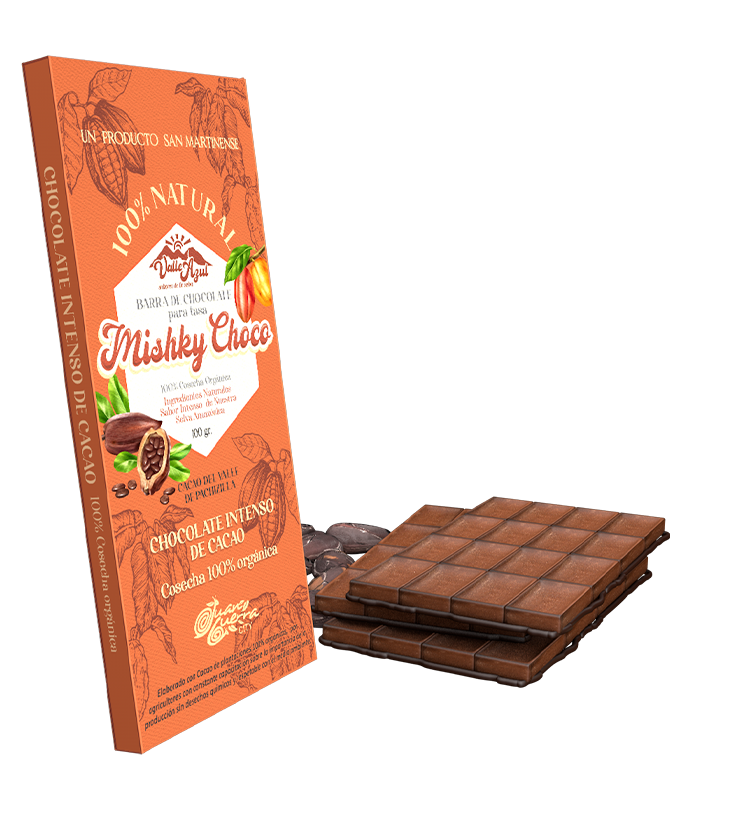
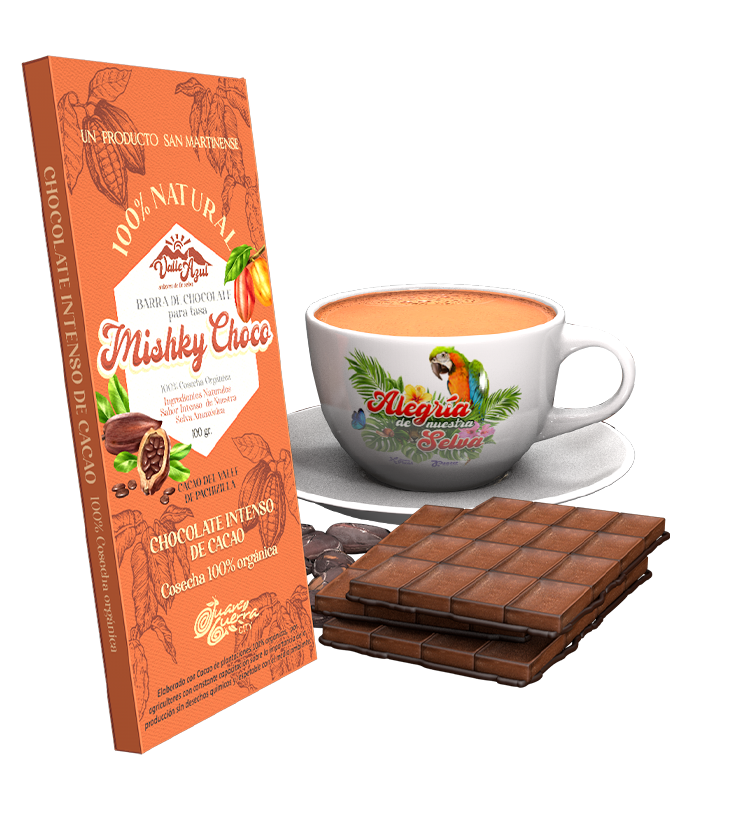
Add files via upload

Changed region(s): [[0.368, 0.3374, 0.8587, 0.6442]]

diff --git a/Product inf/index.html b/Product inf/index.html
@@ -21,20 +21,25 @@
     <div class="product-img">
 
       <div class="product-img__item" id="img1">
-        <img src="img/mishkyCHOQLO.png" alt="ValleAzulSANM" class="product-img__img">
+        <img src="img/mishkyCHOQLO.png" alt="ValleAzulSANM" class="product-img__img"> 2
       </div>
 
       <div class="product-img__item" id="img2">
-        <img src="IMG/mishkyBANANA.png" alt="ValleAzulSANM" class="product-img__img">
+        <img src="IMG/mishkyBANANA.png" alt="ValleAzulSANM" class="product-img__img"> 3
       </div>
 
       <div class="product-img__item" id="img3">
-        <img src="img/mishkychoco pdx.png" alt="ValleAzulSANM" class="product-img__img">
+        <img src="img/mishkychoco pdx.png" alt="ValleAzulSANM" class="product-img__img"> 4
       </div>
-
+      <div class="product-img__item" id="img5">
+        <img src="img/product--id1.png" alt="ValleAzulSANM" class="product-img__img"> 4
+      </div>
+      
       <div class="product-img__item" id="img4">
-        <img src="img/mishkychoco.png" alt="ValleAzulSANM" class="product-img__img">
+        <img src="img/mishkychoco.png" alt="ValleAzulSANM" class="product-img__img"> 1
       </div>
+      
+      
 
 
     </div>
@@ -256,6 +261,82 @@
         </div>
 
         <div class="product-slider__item swiper-slide" data-target="img3">
+          <div class="product-slider__card">
+            <img src="img/background_product_inf2.png" alt="star wars" class="product-slider__cover">
+            <div class="product-slider__content">
+              <h1 class="product-slider__title">
+                MISHKY CHOCO <font color="#ffa94d">Chocolate para Tasa </font> </b>
+              </h1>
+              <span class="product-slider__price">9.<sup>99</sup></span>
+              <div class="product-ctr">
+                <div class="product-labels">
+                  <div class="product-labels__title">CONTENIDO</div>
+
+                  <div class="product-labels__group">
+                    <label class="product-labels__item">
+                      <input type="radio" class="product-labels__checkbox" name="type6" checked>
+                      <span class="product-labels__txt">100gr</span>
+                    </label>
+
+                    <label class="product-labels__item">
+                      <input type="radio" class="product-labels__checkbox" name="type6">
+                      <span class="product-labels__txt">barra chocolate para tasa</span>
+                    </label>
+                  </div>
+
+                  <div class="product-labels__title">INGREDIENTE</div>
+
+                  <div class="product-labels__group">
+                    <label class="product-labels__item">
+                      <input type="radio" class="product-labels__checkbox" name="type7" checked>
+                      <span class="product-labels__txt">100%</span>
+                    </label>
+
+                    <label class="product-labels__item">
+                      <input type="radio" class="product-labels__checkbox" name="type7">
+                      <span class="product-labels__txt">CACAO SAN MARTINENSE</span>
+                    </label>
+                  </div>
+
+                </div>
+
+                <span class="hr-vertical"></span>
+
+                <div class="product-inf">
+                  <div class="product-inf__percent">
+                    <div class="product-inf__percent-circle">
+                      <svg xmlns="http://www.w3.org/2000/svg" width="100" height="100" viewBox="0 0 100 100">
+                        <defs>
+                          <linearGradient id="gradient" x1="0%" y1="0%" x2="0%" y2="100%">
+                            <stop offset="0%" stop-color="#0c1e2c" stop-opacity="0" />
+                            <stop offset="100%" stop-color="#cb2240" stop-opacity="1" />
+                          </linearGradient>
+                        </defs>
+                        <circle cx="50" cy="50" r="38" stroke-dasharray="240, 300" stroke="#3bcb22" stroke-width="4" fill="none"/>
+                      </svg>
+                    </div>
+                    <div class="product-inf__percent-txt">
+                      100%
+                    </div>
+                  </div>
+
+                  <span class="product-inf__title">COSECHA<br> ORGÁNICA</span>
+                </div>
+
+              </div>
+
+              <div class="product-slider__bottom">
+                <button class="product-slider__cart">
+                  COMPRAR<a class="fab fa-whatsapp"></a>
+                </button>
+
+                <button class="product-slider__fav js-fav"><span class="heart"></span> ME GUSTA</button>
+              </div>
+            </div>
+          </div>
+        </div>
+        
+        <div class="product-slider__item swiper-slide" data-target="img5">
           <div class="product-slider__card">
             <img src="img/background_product_inf2.png" alt="star wars" class="product-slider__cover">
             <div class="product-slider__content">

diff --git a/index.html b/index.html
@@ -87,30 +87,29 @@
       </div>
     </div>
   </div>
-  <div class="product--info" id="Product---info">
-    <iframe  style="width:100%; height: 800px; border: 0ch;" src="./Product inf/index.html" ></iframe>
-  </div>
-  
-  
-  
- 
-  
 
-   <!--html>
-    <div class="auction">
+  <!-- Secuencia Product -->
+  <div class="product--info" id="Product---info">
+    <iframe scrolling="no" style="width:100%; height: 1050px; border: 0ch;" src="./Product inf/index.html" ></iframe>
+  </div>
+  <div>
+    <!-- Secuencia Product -->
+  </div>
+  <div class="auction">
     <div class="title">
-      <p class="titlebold">Hot auctions</p>
-      <p class="titleslim">View all</p>
+      <p class="titlebold">Galería</p>
+      <p class="titleslim">Nuestra galería</p>
     </div>
     <div class="nft">
       <div class=item>
-        <img class="item-img" src="https://i.ibb.co/RhpnYWV/Enis-cyberpunk-ottoman-sultan-in-a-cyberpunk-city-8-K-hyperreali-e7506c88-2574-487c-838e-5bb8618dd1c.png" alt="unsplash-OG44d93i-NJk" border="0">
+        <iframe src="https://www.facebook.com/plugins/video.php?height=476&href=https%3A%2F%2Fwww.facebook.com%2Fvalleazulsanm%2Fvideos%2F638316937677208%2F&show_text=false&width=267&t=0" width="267" height="476" style="border:none;overflow:hidden" scrolling="no" frameborder="0" allowfullscreen="true" allow="autoplay; clipboard-write; encrypted-media; picture-in-picture; web-share" allowFullScreen="true"></iframe>
         <div class="item-title">
-          <p>Lorem Ipsum</p>
-          <p>1.20 Weth</p>
+          <p>Mishku Choco</p>
+          <p>Fanpage</p>
         </div>
-        <p class="item-date">Ends in 01.34.45</p>
+        <p class="item-date">Chocolate Intenso de cacao para tasa</p>
       </div>
+      <!--html>
       <div class=item>
         <img class="item-img" src="https://i.ibb.co/SrNRC0b/Erkan-Erdil-angry-soviet-officer-shouting-his-soldiers8k-octane-7b802966-9d4e-4c6e-ac37-d4f751419081.png" alt="unsplash-OG44d93i-NJk" border="0">
         <div class="item-title">
@@ -134,9 +133,18 @@
           <p>1.20 Weth</p>
         </div>
         <p class="item-date">Ends in 01.34.45</p>
-      </div>
+      </div></html-->
     </div>
   </div>
+  
+  
+  
+  
+ 
+  
+
+   <!--html>
+    
    
   <div class="auction">
     <div class="title">

diff --git a/style.css b/style.css
@@ -157,7 +157,11 @@ body {
 }
 .box .infobox-btnwrapper {
   display: flex;
+  position: absolute;
+  z-index: 2;
+  
 }
+
 .box .infobox-explorebtn {
   cursor: pointer;
   display: flex;
@@ -568,6 +572,7 @@ body {
     grid-template-columns: auto auto;
     justify-content: space-around;
   }
+  
 
   .discover-items {
     grid-template-columns: auto auto auto;
@@ -746,6 +751,78 @@ body {
   }
 
 }
+
+@media screen and (max-width: 380px)
+{
+  .box .display {
+    animation-name: rightslide;
+    animation-duration: 0.8s;
+    padding: 14px;
+    border: 1px solid;
+    background: linear-gradient(169.44deg, rgba(58, 129, 191, 0.08) 1.85%, rgba(65, 48, 90, 0.08) 98.72%);
+    border-radius: 35px;
+    max-height: 780px;
+    max-width: 100%;
+    overflow: none;
+  }
+  .box .display-nft {
+    object-fit: cover;
+    flex-shrink: 0;
+    width: 400px;
+    height: 400px;
+    border-radius: 20px;
+  }
+  .box .display-nft2 {
+    object-fit: cover;
+    position: absolute;
+    margin-left: -60px;
+    margin-top: -40px;
+    flex-shrink: 0;
+    width: 480px;
+    height: 460px;
+    border-radius: 20px;
+    
+  }
+  .box .display-nft3 {
+    object-fit: cover;
+    position: absolute;
+    z-index: 11111;
+    margin-left: -100px;
+    
+    flex-shrink: 0;
+    width: 500px;
+    height: 400px;
+    border-radius: 20px;
+    
+  }
+
+  .product--info iframe {
+    
+    left: 0px;
+    width: 100%;
+    height: 800px;
+    
+  }
+  .navbar .navlogo {
+    height: 100%;
+    background: linear-gradient(93.51deg, #9B51E0 2.84%, #3081ED 99.18%);
+    -webkit-background-clip: text;
+    -webkit-text-fill-color: transparent;
+    font-family: "Poppins";
+    font-style: normal;
+    font-weight: 700;
+    font-size: 32px;
+    margin-left: -50px;
+  }
+  .auction {
+    position: relative;
+    top: 950px;
+    
+  }
+
+
+} 
+
 @media screen and (max-width: 360px)
 {
   .box .display {
@@ -807,6 +884,11 @@ body {
     font-weight: 700;
     font-size: 32px;
     margin-left: -50px;
+  }
+  .auction {
+    position: relative;
+    top: 950px;
+    
   }
 
 

diff --git a/Product inf/style.css b/Product inf/style.css
@@ -222,7 +222,7 @@ a {
   width: 75%;
   height: 85%;
   border-radius: 30px;
-  box-shadow: 0 28px 79px 0 rgba(10, 22, 31, 0.35);
+  box-shadow: 0 28px 79px 0 rgba(31, 22, 10, 0.35);
   position: absolute;
   top: 50%;
   right: 0;
@@ -723,6 +723,7 @@ a {
 .social__item:hover {
   color: #fff;
 }
+
 @media screen and (max-width: 576px) {
   .social__item {
     margin-bottom: 10px;
@@ -733,10 +734,12 @@ a {
   margin-right: 15px;
 }
 
-@media screen and (max-width: 360px)
+
+@media screen and (max-width: 380px)
 {
   .product-img {
     margin-top: -35px;
+    
   }
   .product-slider__card{
     width: 330px;
@@ -762,6 +765,40 @@ a {
     left: -100px;
     
   }
+
+  
+}
+@media screen and (max-width: 360px)
+{
+  .product-img {
+    margin-top: -35px;
+    
+  }
+  .product-slider__card{
+    width: 330px;
+    left: -12px;
+   
+  }
+ .product-slider__cover{
+  width: 500px;
+ }
+  
+  .product-slider__price2 {
+    position: absolute;
+    margin-top: 95px;
+
+  }
+  .product-labels__title {
+    margin-top: -30px;
+  }
+  .social {
+    position: absolute;
+    justify-content:center;
+    margin: 105px;
+    left: -100px;
+    
+  }
+
   
 }
 
